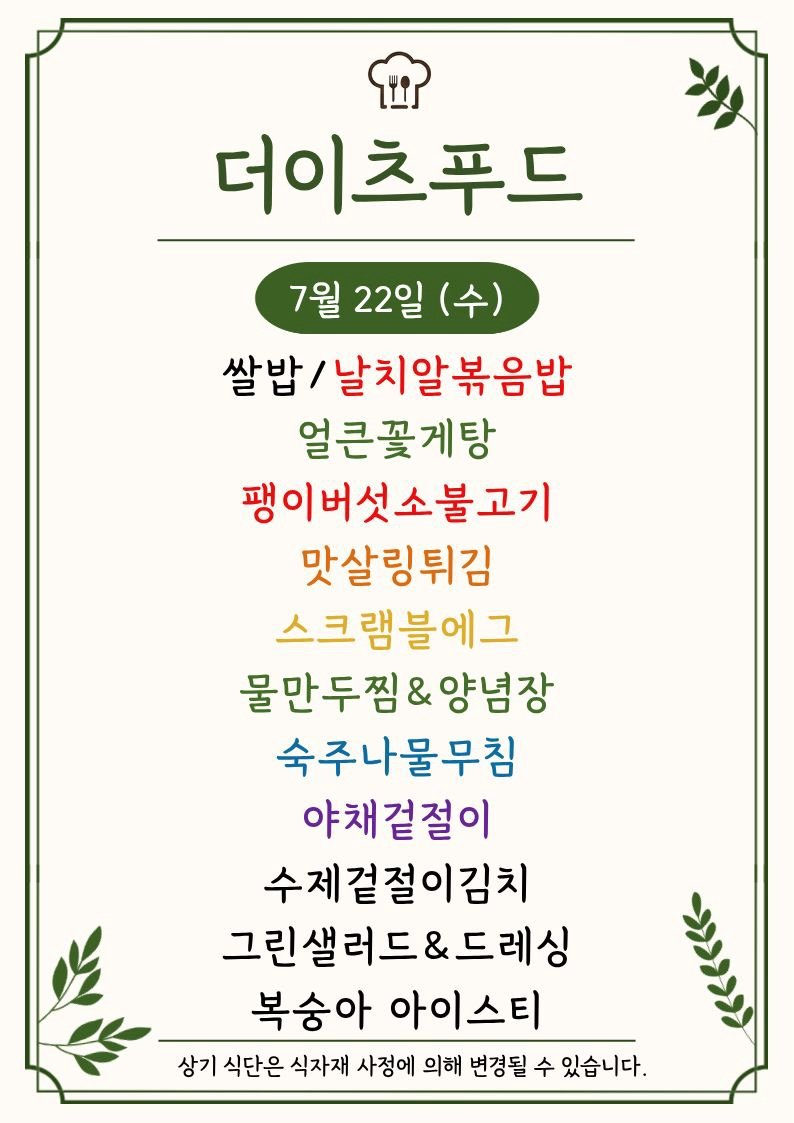
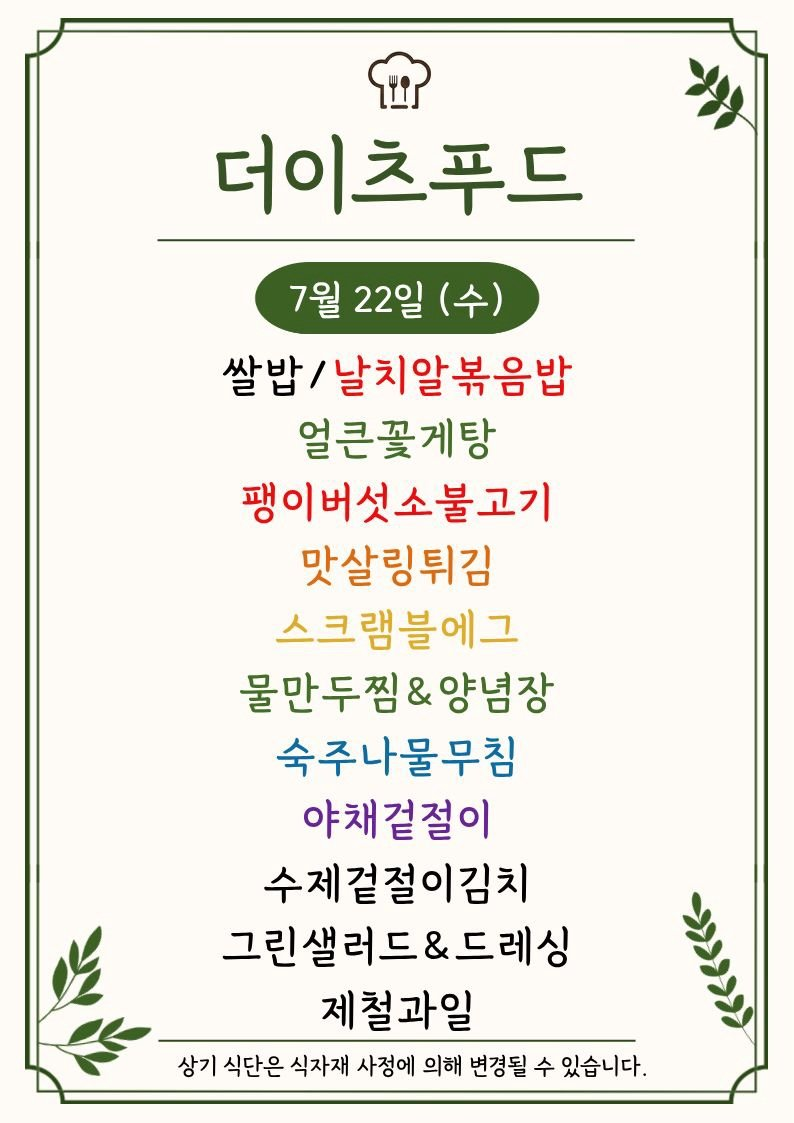
Update menu board assets

Changed region(s): [[0.3023, 0.8727, 0.6952, 0.935]]

diff --git a/guro-menu/index.html b/guro-menu/index.html
@@ -32,7 +32,7 @@
   </header>
   <section class="meta">
     <div><small>기준 날짜</small><strong>2026년 7월 22일 수요일</strong></div>
-    <div><small>최종 갱신</small><strong>2026-07-22 10:48:29</strong></div>
+    <div><small>최종 갱신</small><strong>2026-07-22 11:03:43</strong></div>
     <div><small>등록 식당</small><strong>5개</strong></div>
   </section>
   <div class="notice">공개 카카오 채널의 메뉴 이미지를 자동 수집하고 OCR로 정리합니다. 텍스트에 오타가 있을 수 있으니 식단 이미지를 함께 확인해 주세요.</div>
@@ -76,7 +76,7 @@
         </div>
         <img class="menu-image" src="./images/the-eats-food.png" alt="더이츠푸드 식단 이미지" loading="lazy">
         
-        <ul><li>더[0 프ㄷ</li><li>쌀밥/날치알볶음밥</li><li>얼큰꽃게탕</li><li>팽이버섯소불고기</li><li>마사르 티김</li><li>물만두찜&amp;양념장</li><li>숙주나물무침</li><li>야채겉절이</li><li>수제겉절이김치 y</li><li>그린샐러드&amp;드레싱 Y</li><li>복숭아 ofo] Ae] Y</li></ul>
+        <ul><li>Taoi/ 프 ㄷ</li><li>쌀밥/날치알볶음밥</li><li>얼큰꽃게탕</li><li>팽이버섯소불고기</li><li>마사르 티김</li><li>물만두찜&amp;양념장</li><li>숙주나물무침</li><li>야채겉절이</li><li>수제겉절이김치 y</li><li>그린샐러드&amp;드레싱 yy</li><li>제철과일</li></ul>
       </article>
 
       <article class="restaurant-card">

diff --git a/menu-today/index.html b/menu-today/index.html
@@ -209,7 +209,7 @@
 
     <section class="meta-bar">
       <div class="meta-card"><div class="meta-label">기준 날짜</div><div class="meta-value">2026년 7월 22일 수요일</div></div>
-      <div class="meta-card"><div class="meta-label">최종 가져온 시간</div><div class="meta-value">2026-07-22 10:48:13</div></div>
+      <div class="meta-card"><div class="meta-label">최종 가져온 시간</div><div class="meta-value">2026-07-22 11:03:32</div></div>
       <div class="meta-card"><div class="meta-label">확인 완료</div><div class="meta-value">9개 식당</div></div>
       <div class="meta-card"><div class="meta-label">준비중</div><div class="meta-value">3개 채널</div></div>
     </section>
